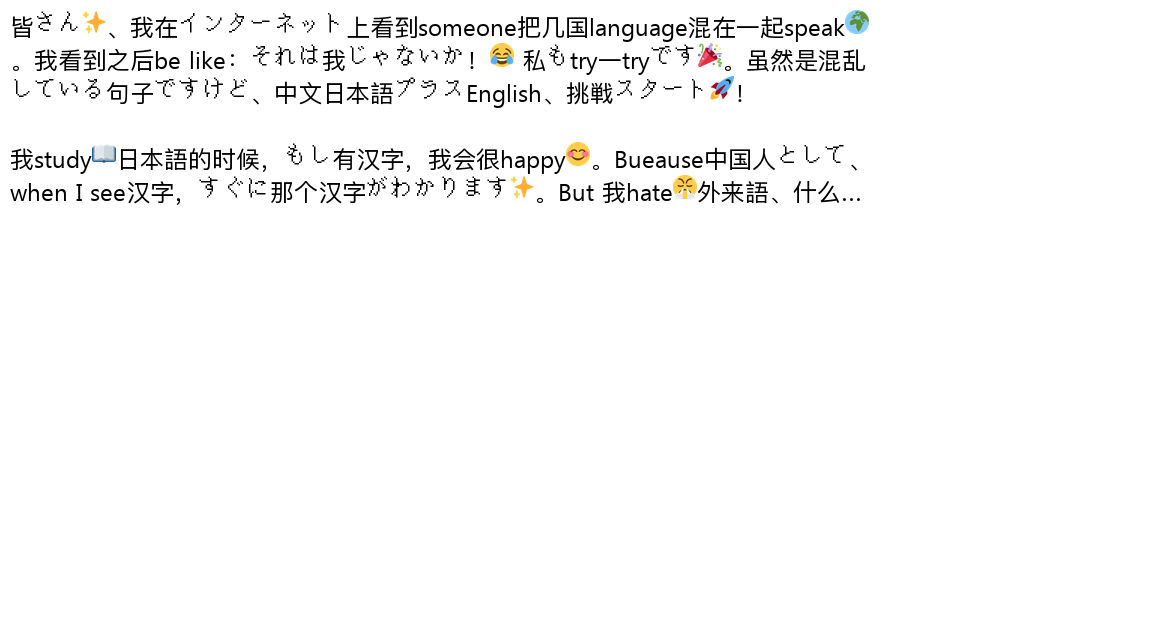
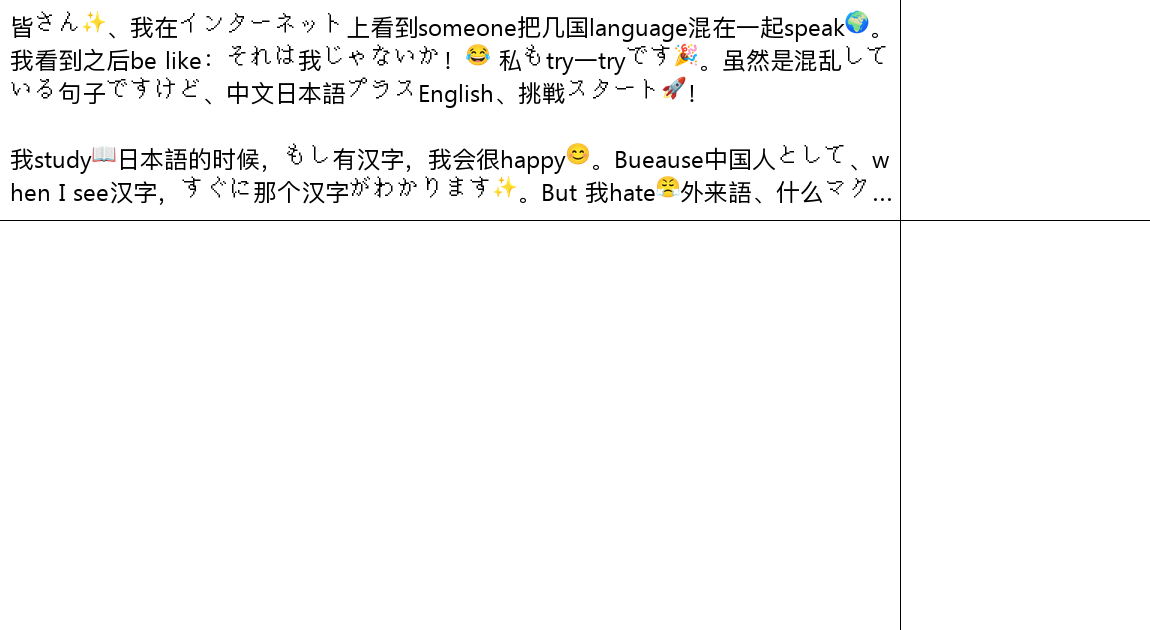
fix：修正文本渲染，防止字体递归错误
- 修复了 `Font.matcher` 中的关键递归错误，确保字体处理的稳定性。（理论上应该是有递归的问题的，但是实际上没有测试出来，神奇的bug）
- 尝试修正了 `draw_text` 中的换行问题，确保多行文本渲染的准确性。
- 将文本解析重构到 `_parse_text_segments` 中，使代码更清晰。
- 增强了错误处理和代码风格，提升可维护性和健壮性。

Changed region(s): [[0.0, 0.0, 0.7609, 0.181], [0.0, 0.2111, 0.7609, 0.3317], [0.7609, 0.2413, 0.7913, 0.2714]]

diff --git a/src/power_text/power_text.py b/src/power_text/power_text.py
@@ -1,5 +1,19 @@
 from PIL import Image, ImageFont, ImageDraw
-from typing import Callable
+from typing import Callable, List, Tuple, Optional
+
+try:
+    import pilmoji
+    import emoji
+    from pilmoji import Pilmoji
+except ImportError:
+    pilmoji = None
+    Pilmoji = None
+    emoji = None
+except AttributeError as e:
+    if str(e) == "module 'emoji.unicode_codes' has no attribute 'get_emoji_unicode_dict'":
+        raise AttributeError("Please downgrade emoji to ~=1.6.3: pip install emoji~=1.6.3 -U\n"
+                             "see https://github.com/carpedm20/emoji/issues/221#issuecomment-1199857533")
+    raise e
 
 
 class Font:
@@ -10,7 +24,7 @@ class Font:
         :param matcher: 用于匹配文本字符的回调函数
         """
         self._font: ImageFont.FreeTypeFont = font
-        self.matcher: Callable[[str], bool] = matcher
+        self.matcher_func: Callable[[str], bool] = matcher
 
     def matcher(self, text: str) -> bool:
         """
@@ -18,7 +32,7 @@ class Font:
         :param text: 输入文本
         :return: 匹配返回 True，否则返回 False
         """
-        return self.matcher(text)
+        return self.matcher_func(text)
 
     @property
     def font(self) -> ImageFont.FreeTypeFont:
@@ -26,12 +40,10 @@ class Font:
         获取字体对象，如果是 emoji，则返回默认字体。
         :return: 字体对象
         """
-        if self._font == "emoji":
-            return ImageFont.load_default()
-        return self._font
+        return ImageFont.load_default() if self._font == "emoji" else self._font
 
     @property
-    def is_emoji(self):
+    def is_emoji(self) -> bool:
         """
         判断该字体是否是 emoji。
         :return: 如果是 emoji 返回 True，否则返回 False
@@ -45,32 +57,55 @@ class Font:
         :param has_emoji: 是否包含 emoji
         :return: 文本宽度和高度
         """
-        if has_emoji:
-            try:
-                import pilmoji
-            except ImportError:
-                raise ImportError("If the rendering has text with emoji, install pilmoji: pip install pilmoji")
-            except AttributeError as e:
-                if str(e) == "module 'emoji.unicode_codes' has no attribute 'get_emoji_unicode_dict'":
-                    raise AttributeError("Please downgrade emoji to ~=1.6.3: pip install emoji~=1.6.3 -U\n"
-                                         "see https://github.com/carpedm20/emoji/issues/221#issuecomment-1199857533")
-                raise e
-            if self.is_emoji:
-                font = None
-            else:
-                font = self.font
-            w, h = pilmoji.getsize(text, font)
+        if has_emoji and pilmoji and Pilmoji:  # 检查 pilmoji 是否可用
+            font = None if self.is_emoji else self.font
+            return pilmoji.getsize(text, font)
         else:
             text_l, text_t, text_r, text_b = self.font.getbbox(text)
-            w, h = text_r - text_l, text_b - text_t
-        return w, h
+            return int(text_r - text_l), int(text_b - text_t)
 
 
-def draw_text(img: Image.Image, xy: tuple[int, int], text: str, fonts: list[Font],
-         color: tuple[int, int, int], max_x: int = -1, max_y: int = -1, max_line: int = -1,
-         end_text: str = "", end_text_font: ImageFont.FreeTypeFont | Font | None = None,
-         line_height: int = -1,
-         has_emoji: bool = True, emoji_source=None):
+def _parse_text_segments(text: str, fonts: List[Font], has_emoji: bool) -> List[Tuple[str, Font, bool]]:
+    """
+    解析文本，将其拆分为不同的字体片段。
+    :param text: 输入文本
+    :param fonts: 字体列表
+    :param has_emoji: 是否处理 emoji
+    :return: 文本片段列表，每个片段包含 (文本, 字体对象, 是否是 emoji)
+    """
+    text_segments: List[Tuple[str, Font, bool]] = []
+    if has_emoji:
+        if not emoji:
+            raise ImportError("If the rendering has text with emoji, install emoji: pip install emoji")
+        fonts.insert(0, Font("emoji", emoji.is_emoji))  # 处理 emoji
+
+    for char in text:
+        for font in fonts:
+            if font.matcher(char):
+                if not font.is_emoji:
+                    # 处理连续相同字体的文本
+                    if (text_segments and (text_segments[-1][1] == font or text_segments[-1][1].is_emoji) and
+                            char != '\n' and text_segments[-1][0] != '\n'):
+                        text_segments[-1] = (text_segments[-1][0] + char, font, text_segments[-1][2])
+                    else:
+                        text_segments.append((char, font, False))
+                else:
+                    # 处理 emoji
+                    if text_segments and text_segments[-1][0] != '\n':
+                        text_segments[-1] = (text_segments[-1][0] + char, text_segments[-1][1], True)
+                    else:
+                        text_segments.append((char, font, True))
+                break
+        else:
+            raise ValueError(f'未找到匹配的字体: {char}')
+    return text_segments
+
+
+def draw_text(img: Image.Image, xy: tuple[int, int], text: str, fonts: List[Font],
+              color: tuple[int, int, int], max_x: int = -1, max_y: int = -1, max_line: int = -1,
+              end_text: str = "", end_text_font: Optional[Font] = None,
+              line_height: int = -1,
+              has_emoji: bool = True, emoji_source=None):
     """
     在图像上绘制文本，并支持 多字体与emoji。
     :param img: PIL 图像对象
@@ -87,72 +122,56 @@ def draw_text(img: Image.Image, xy: tuple[int, int], text: str, fonts: list[Font
     :param has_emoji: 是否处理 emoji
     :param emoji_source: emoji 来源
     """
-    # 解析文本，将其拆分为不同的字体片段
-    text_list: list[tuple[str, Font, int]] = []  # (文本, 字体对象, 是否是 emoji)
-    if has_emoji:
-        import emoji
-        fonts.insert(0, Font("emoji", lambda char: emoji.is_emoji(char)))  # 处理 emoji
-
-    # 遍历文本字符，为每个字符选择合适的字体
-    for char in text:
-        for font in fonts:
-            if font.matcher(char):
-                if not font.is_emoji:
-                    # 处理连续相同字体的文本
-                    if (text_list and (text_list[-1][1] == font or text_list[-1][1].is_emoji) and
-                            char != '\n' and text_list[-1][0] != '\n'):
-                        text_list[-1] = (text_list[-1][0] + char, font, text_list[-1][2])
-                    else:
-                        text_list.append((char, font, 0))
-                else:
-                    # 处理 emoji
-                    if text_list and text_list[-1][0] != '\n':
-                        text_list[-1] = (text_list[-1][0] + char, text_list[-1][1], 1)
-                    else:
-                        text_list.append((char, font, 1))
-                break
-        else:
-            raise ValueError(f'未找到匹配的字体: {char}')
+    text_segments = _parse_text_segments(text, fonts, has_emoji)
 
     # 自动计算行高
     if line_height == -1:
-        for text, text_font, _ in text_list:
+        for text, text_font, _ in text_segments:
             _, text_h = text_font.get_size(text, has_emoji)
             if not text_font.is_emoji:
                 line_height = max(text_h + text_font.font.getmetrics()[1], line_height)
             else:
                 line_height = max(text_h, line_height)
+        if line_height == 0:
+            line_height = 10  # 异常情况下的默认行高
 
-    if isinstance(end_text_font, Font):
-        end_text_font = end_text_font.font
-    if end_text_font is None:
-        end_text_font = fonts[-1].font
+    end_text_draw_font = end_text_font.font if isinstance(end_text_font, Font) else (end_text_font or fonts[-1].font)
+    end_text_w = end_text_draw_font.getlength(end_text)
 
-    end_text_w = end_text_font.getlength(end_text)
-
-    if end_text_w > max_x - xy[0]:
+    if max_x != -1 and end_text_w > max_x - xy[0]:
         raise ValueError("end_text_font too long")
+    else:
+        if max_x != -1 and end_text_w * 1.5 > max_x - xy[0]:
+            end_text_w *= 1.5
 
-    # 逐段绘制文本
+    draw = ImageDraw.Draw(img)
+    if has_emoji:
+        if not Pilmoji:
+            raise ImportError("If the rendering has text with emoji, install pilmoji: pip install pilmoji")
+
+        pilmoji_instance = Pilmoji(img, source=emoji_source)
+    else:
+        pilmoji_instance = None
+
     now_x, now_y = xy
     last_x, last_y = xy
     last_text_w = 0
-    draw = ImageDraw.Draw(img)
     line_index = 1
     i = 0
-    while i < len(text_list):
-        text, text_font, font_type = text_list[i]
+    while i < len(text_segments):
+        text, text_font, is_emoji_segment = text_segments[i]
         is_enter = False
 
         # 处理换行逻辑
-        if (max_x != -1 and text_font.get_size(text)[0] > max_x - now_x) or text == '\n':
+        if max_x != -1 and text_font.get_size(text)[0] > max_x - now_x or text == '\n':
             # 二分查找找出最大能写下的部分
-            best_index = 0
             if text != '\n':
                 left, right = 0, len(text) - 1
+                best_index = 0
                 while left < right:
                     m = (left + right + 1) // 2
-                    if (text_font.get_size(text[:m], has_emoji)[0] <
+                    if (
+                            text_font.get_size(text[:m], has_emoji and is_emoji_segment)[0] <
                             (max_x - now_x
                              if (max_line == -1 or max_line != line_index) and
                                 (max_y == -1 or now_y + line_height * 2 < max_y)
@@ -163,16 +182,16 @@ def draw_text(img: Image.Image, xy: tuple[int, int], text: str, fonts: list[Font
                     else:
                         right = m - 1
 
-                # 将下一段的文本添加到text_list
-                text_list[i] = (text[best_index:], text_font, 1
-                                if has_emoji and emoji.is_emoji(text[best_index:]) is not None else 0)
-                text = text[:best_index]
+                current_text = text[:best_index]
+                remaining_text = text[best_index:]
+                # 将剩余文本添加回text_segments
+                text_segments[i] = (remaining_text, text_font, True
+                                    if has_emoji and emoji.is_emoji(remaining_text) is not None else False)
+                text = current_text  # 使用截断后的文本
 
             is_enter = True
 
-        # 判断是否超出最大高度
-        _, text_h = text_font.get_size(text, has_emoji)
-        if (max_y != -1 and now_y + text_h > max_y) or (max_line != -1 and line_index > max_line):
+        if (max_y != -1 and now_y + line_height > max_y) or (max_line != -1 and line_index > max_line):
             if len(end_text):
                 if isinstance(end_text_font, Font):
                     end_text_font = end_text_font.font
@@ -181,36 +200,17 @@ def draw_text(img: Image.Image, xy: tuple[int, int], text: str, fonts: list[Font
                 draw.text((last_x + last_text_w, last_y), end_text, color, font=end_text_font)
             break
 
-        # 绘制文本
-        if font_type == 0:
-            # 纯文本
-            draw.text((now_x, now_y), text, color, font=text_font.font)
+        if is_emoji_segment and pilmoji_instance:
+            pilmoji_instance.text((now_x, now_y), text, color,
+                                  font=text_font.font if not text_font.is_emoji else None)
         else:
-            # emoji
-            try:
-                from pilmoji import Pilmoji
-            except ImportError:
-                raise ImportError("If the rendering has text with emoji, install pilmoji: pip install pilmoji")
-            except AttributeError as e:
-                if str(e) == "module 'emoji.unicode_codes' has no attribute 'get_emoji_unicode_dict'":
-                    raise AttributeError("Please downgrade emoji to ~=1.6.3: pip install emoji~=1.6.3 -U\n"
-                                         "see https://github.com/carpedm20/emoji/issues/221#issuecomment-1199857533")
-                raise e
-            if emoji_source is None:
-                pilmoji = Pilmoji(img)
-            else:
-                pilmoji = Pilmoji(img, source=emoji_source)
-
-            if text_font.is_emoji:
-                pilmoji.text((now_x, now_y), text, color)
-            else:
-                pilmoji.text((now_x, now_y), text, color, font=text_font.font)
-            pilmoji.close()
+            draw.text((now_x, now_y), text, color, font=text_font.font)
 
         last_x, last_y = now_x, now_y
         last_text_w = text_font.get_size(text, has_emoji)[0]
         now_x += last_text_w
-        if is_enter and text != '\n':
+
+        if is_enter and text != '\n':  # 换行条件判断合并
             now_x = xy[0]
             now_y += line_height
             line_index += 1
@@ -221,3 +221,6 @@ def draw_text(img: Image.Image, xy: tuple[int, int], text: str, fonts: list[Font
             line_index += 1
         else:
             i += 1
+
+    if pilmoji_instance:
+        pilmoji_instance.close()  # 统一关闭 pilmoji 实例

diff --git a/example.py b/example.py
@@ -1,16 +1,26 @@
 import re
 import time
 
-import power_text
-from PIL import Image, ImageFont
+import src.power_text as power_text
+# import power_text as power_text
+from PIL import Image, ImageFont, ImageDraw
+from src.power_text import local_emoji_source
+# from power_text import local_emoji_source
 
 jap = re.compile(r'[\u3040-\u309F\u30A0-\u30FF]')
 
 img = Image.new("RGB", (1150, 630), (255, 255, 255))
+
+draw = ImageDraw.Draw(img)
+
 font1 = ImageFont.truetype(r'SmileySans-Oblique.ttf', 24)
 font2 = ImageFont.truetype(r'PINGFANG MEDIUM.TTF', 24)
 font3 = ImageFont.truetype(r'unifont-16.0.02.otf', 24)
 font4 = ImageFont.truetype(r'Segoe UI.ttf', 24)
+
+
+draw.line(((900, 0), (900, 630)), fill=(0, 0, 0))
+draw.line(((0, 220), (1150, 220)), fill=(0, 0, 0))
 
 
 start_time = time.time()
@@ -33,10 +43,10 @@ awa
         power_text.Font(font2, lambda _: True)
     ],
     (0, 0, 0),  # 字体颜色
-    max_x=886,  # 最大宽度（超过自动换行）
-    max_y=200,  # 最大高度（超过自动省略）
+    max_x=900,  # 最大宽度（超过自动换行）
+    max_y=220,  # 最大高度（超过自动省略）
     has_emoji=True,
-    # emoji_source=local_emoji_source.LocalEmojiSource(r"noto-emoji-main\png\128"),
+    emoji_source=local_emoji_source.LocalEmojiSource(r"C:\Users\xiaosu\Downloads\noto-emoji-main\png\128"),
     end_text="...",  # 省略符号
 )
 print(f"生成用时: {round(((time.time() - start_time) * 1000), 2)}ms")
